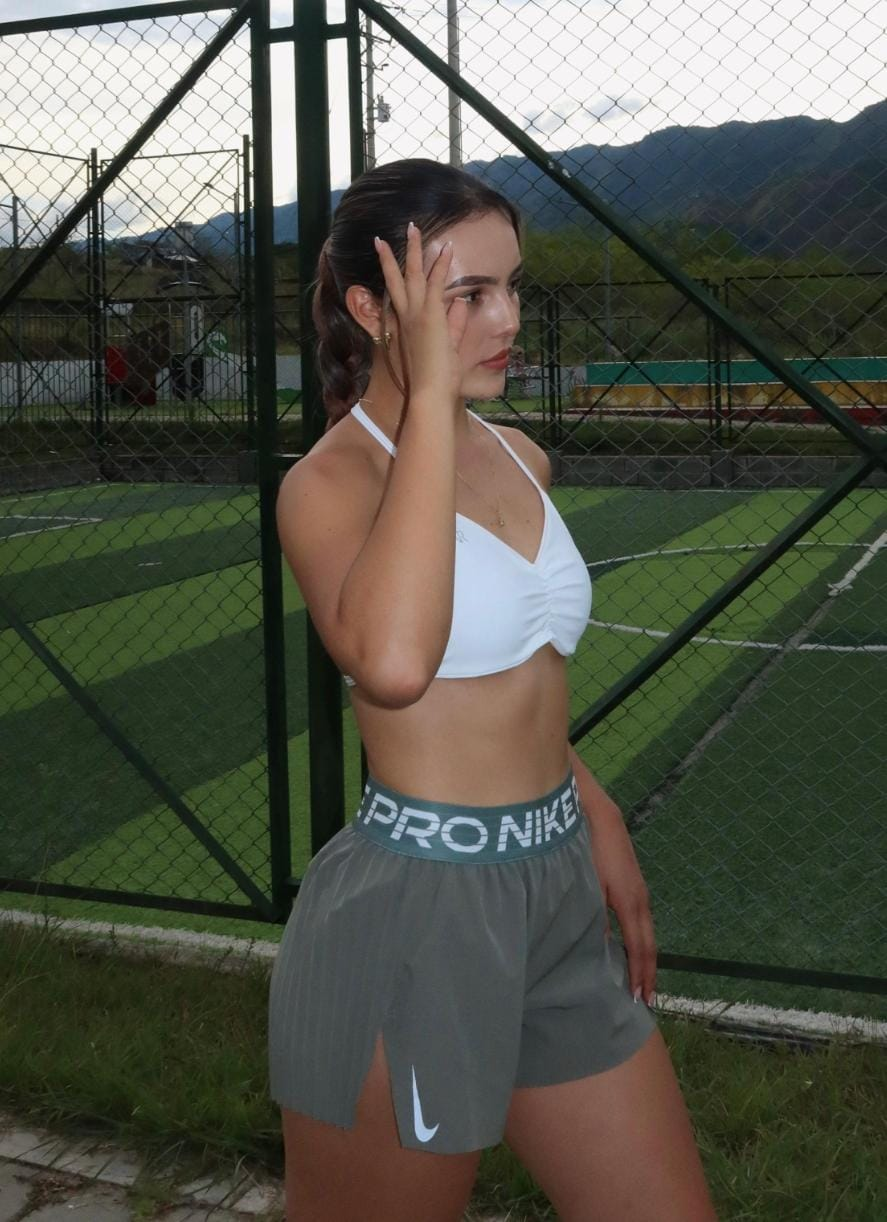
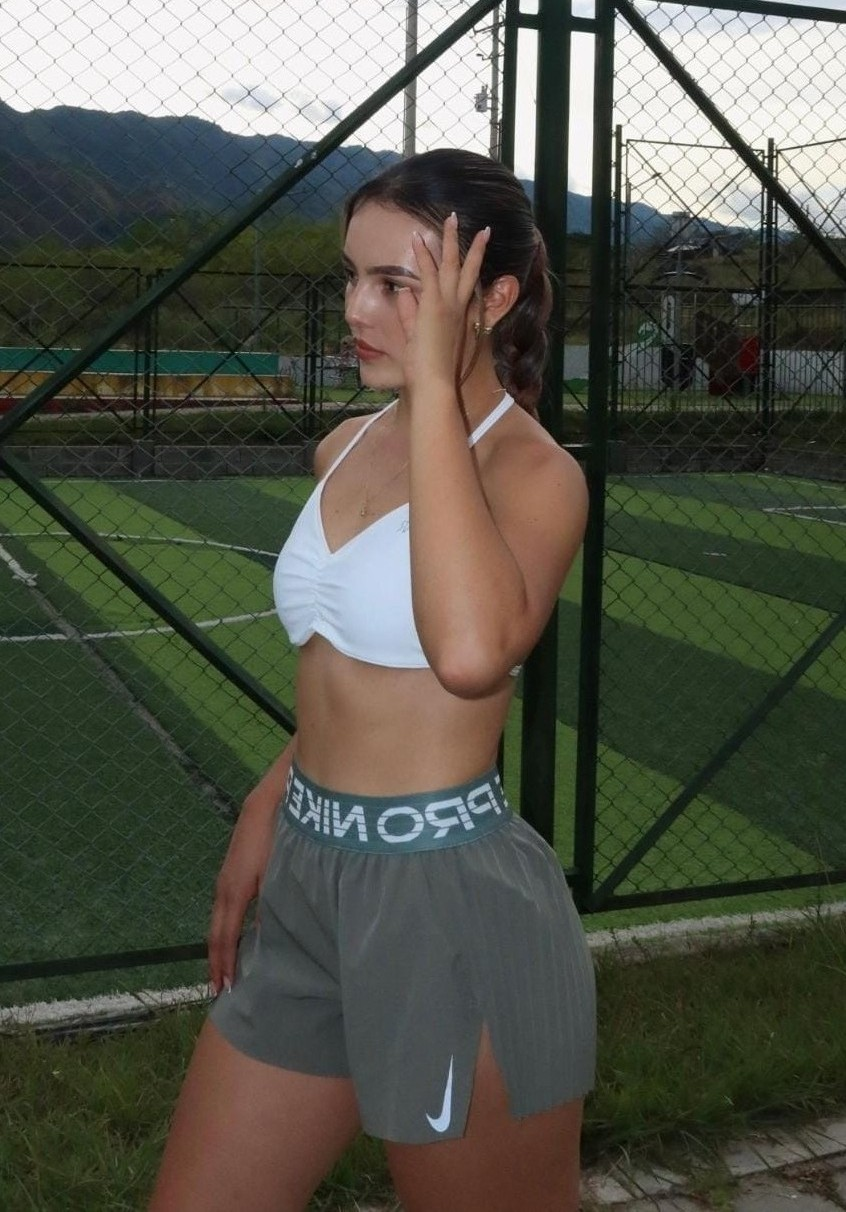
agregamos producto short verde

diff --git a/src/Components/Assets/all_product.js b/src/Components/Assets/all_product.js
@@ -436,6 +436,26 @@ let all_product = [
   },
 
   // ---------------------------- Categoria 2 LEGGINS Y FALDAS -----------------------------
+
+  {
+    id: 203,
+    name: "SHORT RUNNING - TONO VERDE",
+    category: "legginsyfaldas",
+    description: "Tela completamente acanalada",
+    image: shortverde1,
+    image2: shortverde2,
+    image3: shortverde3,
+    image4: shortverde4,
+    new_price: 65000,
+    old_price: 70000,
+    sizes: {
+      XS: false,
+      S: true,
+      M: true,
+      L: false,
+      XL: false,
+    },
+  },
   {
     id: 200,
     name: "SHORT RUNNING - TONO MORADO",
